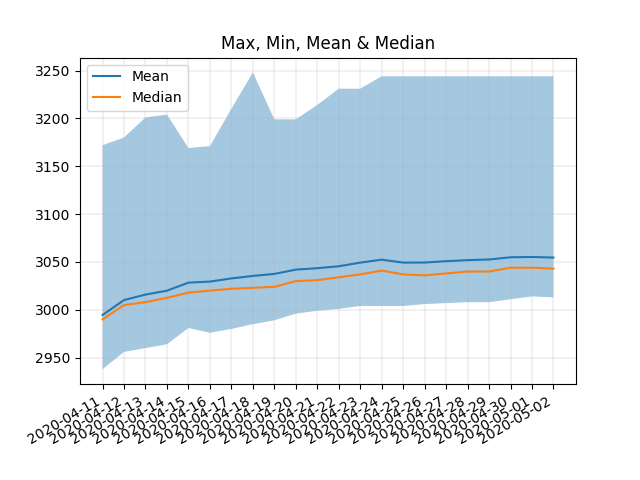
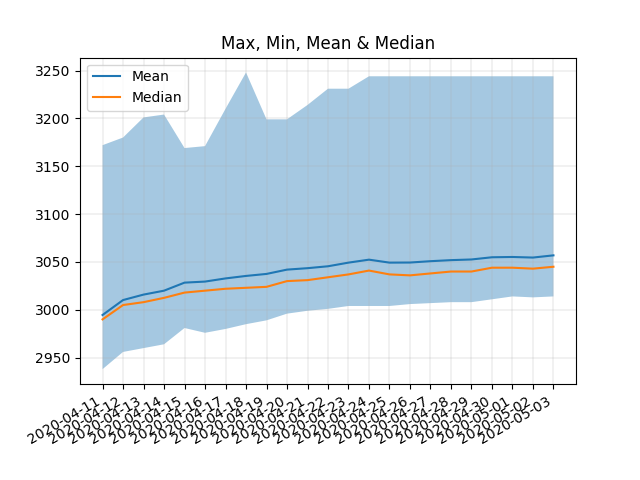
Sun May  3 15:30:15 EDT 2020

diff --git a/README.md b/README.md
@@ -1,10 +1,11 @@
 # MMR Drift Status
 
-**Last Updated (UTC):** 2020-05-02 21:15:10.744345
+**Last Updated (UTC):** 2020-05-03 19:30:14.758802
 ![Figure 1](/images/fig1.png)
 ![Figure 2](/images/fig2.png)
 |date| min| max| mean| drift_daily| drift_total| median| stdev|
 |:---|:---|:---|:---|:---|:---|:---|:--- |
+|2020-05-03| 3014| 3244| 3056.9| 2.3| 62.3| 3045.0| 39.0|
 |2020-05-02| 3013| 3244| 3054.6| -0.6| 60.0| 3043.0| 37.8|
 |2020-05-01| 3014| 3244| 3055.2| 0.2| 60.6| 3044.0| 38.6|
 |2020-04-30| 3011| 3244| 3054.9| 2.4| 60.3| 3044.0| 39.5|
